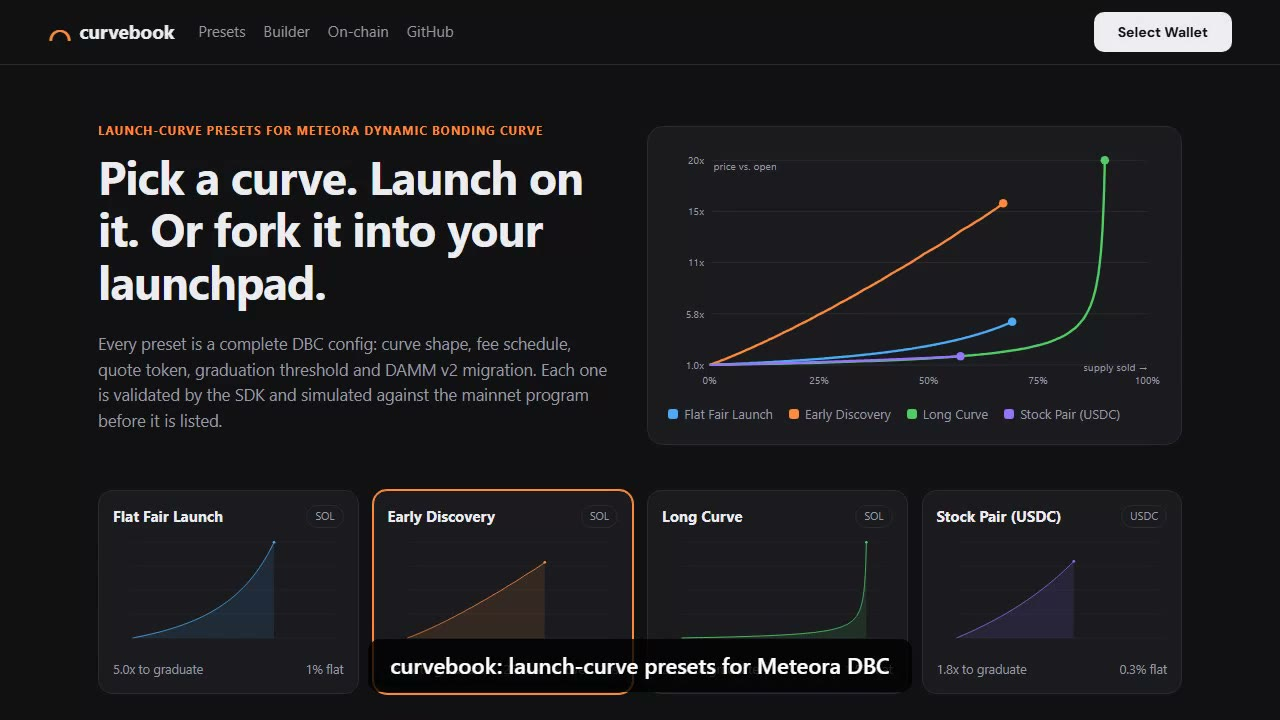
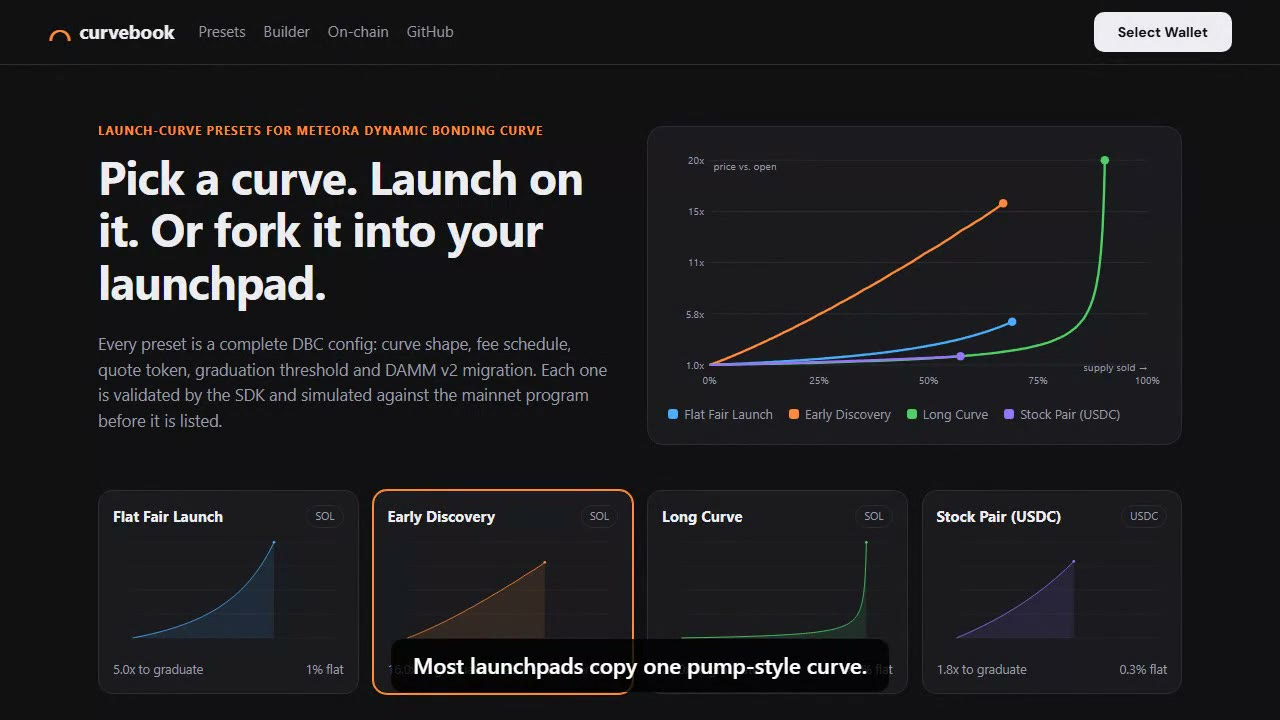
mainnet: four official DBC configs live, 5,000-case curve fuzz test, 42s demo video

Changed region(s): [[0.2812, 0.8861, 0.7188, 0.9778]]

diff --git a/scripts/fuzz-curves.ts b/scripts/fuzz-curves.ts
@@ -1,0 +1,133 @@
+// Randomized property test: N random presets (seeded, reproducible) through the same
+// buildPreset → validateConfigParameters → sampleCurve path the app uses.
+// Pure SDK math, no RPC, no funds. Writes fuzz-report.json.
+//
+//   N=5000 SEED=1 npx tsx scripts/fuzz-curves.ts
+import { writeFileSync } from 'node:fs'
+import { PROTOCOL_FEE_PERCENT } from '@meteora-ag/dynamic-bonding-curve-sdk'
+import { presetStats } from '../src/lib/stats'
+import type { Preset, Shape } from '../src/lib/presets'
+
+const N = Number(process.env.N ?? 5000)
+const SEED = Number(process.env.SEED ?? 1)
+
+// mulberry32
+let s = SEED >>> 0
+const rand = () => {
+  s = (s + 0x6d2b79f5) >>> 0
+  let t = s
+  t = Math.imul(t ^ (t >>> 15), t | 1)
+  t ^= t + Math.imul(t ^ (t >>> 7), t | 61)
+  return ((t ^ (t >>> 14)) >>> 0) / 4294967296
+}
+const pick = <T>(a: T[]) => a[Math.floor(rand() * a.length)]
+const logUniform = (lo: number, hi: number) => Math.exp(Math.log(lo) + rand() * (Math.log(hi) - Math.log(lo)))
+
+function randomPreset(i: number): { p: Preset; expectValid: boolean } {
+  const quote = rand() < 0.75 ? 'SOL' : 'USDC'
+  const initialMarketCap = +(quote === 'SOL' ? logUniform(5, 5_000) : logUniform(1_000, 5_000_000)).toPrecision(4)
+  // 1 in 20 cases is deliberately broken: graduation at or below the start
+  const broken = rand() < 0.05
+  const migrationMarketCap = broken
+    ? +(initialMarketCap * (0.2 + rand() * 0.8)).toPrecision(4)
+    : +(initialMarketCap * logUniform(1.2, 40)).toPrecision(4)
+  const startFeeBps = Math.round(logUniform(25, 5000))
+  const scheduled = rand() < 0.5
+  const endFeeBps = scheduled ? Math.max(25, Math.round(startFeeBps * rand())) : startFeeBps
+  return {
+    expectValid: !broken,
+    p: {
+      id: `fuzz-${i}`,
+      name: `fuzz ${i}`,
+      tagline: '',
+      bestFor: '',
+      shape: pick<Shape>(['flat', 'early', 'long']),
+      quote,
+      initialMarketCap,
+      migrationMarketCap,
+      supply: pick([1_000_000, 10_000_000, 100_000_000, 1_000_000_000]),
+      startFeeBps,
+      endFeeBps,
+      feeDurationSec: scheduled && endFeeBps !== startFeeBps ? Math.round(logUniform(12, 3600)) : 0,
+      creatorFeePct: Math.round(rand() * 100),
+      poolCreationFeeSol: pick([0, 0.01, 0.02, 0.05]),
+    },
+  }
+}
+
+type Fail = { case: number; check: string; detail: string; preset: Preset }
+const fails: Fail[] = []
+const rejectedByValidator: { case: number; error: string; preset: Preset }[] = []
+let passed = 0
+let invalidRejected = 0
+const t0 = Date.now()
+
+for (let i = 0; i < N; i++) {
+  const { p, expectValid } = randomPreset(i)
+  const r = presetStats(p)
+  const fail = (check: string, detail: string) => fails.push({ case: i, check, detail, preset: p })
+
+  if (!expectValid) {
+    if (r.ok) fail('rejects graduation <= start', `accepted mig ${p.migrationMarketCap} <= init ${p.initialMarketCap}`)
+    else invalidRejected++
+    continue
+  }
+  if (!r.ok) {
+    // the SDK may refuse extreme combos (e.g. fee ranges); record them, they are not invariant breaks
+    rejectedByValidator.push({ case: i, error: r.error, preset: p })
+    continue
+  }
+  const st = r.stats
+  const pts = st.points
+  let ok = true
+  const check = (cond: boolean, name: string, detail: string) => {
+    if (!cond) { ok = false; fail(name, detail) }
+  }
+  for (let k = 1; k < pts.length; k++) {
+    check(pts[k].price >= pts[k - 1].price * (1 - 1e-12), 'price never falls', `step ${k}: ${pts[k - 1].price} → ${pts[k].price}`)
+    check(pts[k].sold >= pts[k - 1].sold, 'sold never falls', `step ${k}`)
+    check(pts[k].raised >= pts[k - 1].raised, 'raised never falls', `step ${k}`)
+    if (!ok) break
+  }
+  const qd = p.quote === 'SOL' ? 1e9 : 1e6
+  const threshold = Number(st.params.migrationQuoteThreshold.toString()) / qd
+  check(Math.abs(st.raised - threshold) / threshold < 1e-3, 'graduates at the migration threshold', `raised ${st.raised} vs threshold ${threshold}`)
+  check(st.soldPct > 0 && st.soldPct < 100, 'sells part of supply, never more', `soldPct ${st.soldPct}`)
+  const startMc = st.startPrice * p.supply
+  check(Math.abs(startMc - p.initialMarketCap) / p.initialMarketCap < 0.01, 'start price matches start market cap', `${startMc} vs ${p.initialMarketCap}`)
+  const wantMult = p.migrationMarketCap / p.initialMarketCap
+  check(Math.abs(st.multiplier - wantMult) / wantMult < 0.02, 'graduation multiple matches market-cap ratio', `${st.multiplier} vs ${wantMult}`)
+  check(Math.abs(st.authorShare + st.creatorShare - (1 - PROTOCOL_FEE_PERCENT / 100)) < 1e-9, 'fee shares sum to 100% minus protocol', `${st.authorShare} + ${st.creatorShare}`)
+  if (ok) passed++
+}
+
+const valid = N - (invalidRejected + fails.filter((f) => f.check === 'rejects graduation <= start').length)
+const report = {
+  ranAt: new Date().toISOString(),
+  seed: SEED,
+  cases: N,
+  ms: Date.now() - t0,
+  validCases: valid,
+  passedAllInvariants: passed,
+  rejectedBySdkValidator: rejectedByValidator.length,
+  invalidCases: N - valid,
+  invalidCorrectlyRejected: invalidRejected,
+  invariantFailures: fails.length,
+  checks: [
+    'SDK validateConfigParameters accepts the config',
+    'price, sold and raised never decrease along the curve',
+    'curve graduates within 0.1% of migrationQuoteThreshold',
+    'sold share of supply is between 0 and 100%',
+    'start price × supply within 1% of start market cap',
+    'graduation/start price within 2% of the market-cap ratio',
+    'author + creator fee share = 100% − protocol fee',
+    'graduation market cap <= start market cap is rejected',
+  ],
+  sdkRejections: Object.entries(
+    rejectedByValidator.reduce<Record<string, number>>((m, r) => ((m[r.error] = (m[r.error] ?? 0) + 1), m), {}),
+  ).map(([error, count]) => ({ error, count })),
+  failures: fails.slice(0, 50),
+}
+writeFileSync(new URL('../fuzz-report.json', import.meta.url), JSON.stringify(report, null, 2) + '\n')
+console.log(JSON.stringify({ ...report, failures: report.failures.length, sdkRejections: report.sdkRejections.slice(0, 8) }, null, 2))
+process.exit(fails.length ? 1 : 0)

diff --git a/public/submit.html b/public/submit.html
@@ -47,7 +47,7 @@ Four presets ship today:
 
 The pay-to-use model runs on DBC's own fee-claimer rail. Launching on an official preset pays the preset author the pool-creation fee and the author share of trading fees. A launchpad can also deploy the identical curve under its own wallet with one createConfig and keep those fees itself. A Builder lets anyone tune shape, market caps, fee decay and fee split, validated live with the SDK's validateConfigParameters.
 
-Each preset passes the SDK validator, and its createConfig is simulated against the mainnet DBC program (132–134k CU). The full flow has run on devnet against the same program: createConfig, createPool and a 0.2 SOL buy for every SOL preset, with all signatures on the site. The same buy moved Early Discovery half as far because its 25% opening fee kept a quarter of the input, which shows the anti-snipe fee working. Graduation migrates to DAMM v2 with 100% of the LP permanently locked.`],
+All four preset configs are live on Solana mainnet (config accounts owned by the DBC program, links on the site). A 5,000-case randomized test runs random configs through the same SDK path and checks curve invariants: 0 failures, and every deliberately broken config was rejected. The full flow has also run on devnet against the same program: createConfig, createPool and a 0.2 SOL buy for every SOL preset, with all signatures on the site. The same buy moved Early Discovery half as far because its 25% opening fee kept a quarter of the input, which shows the anti-snipe fee working. Graduation migrates to DAMM v2 with 100% of the LP permanently locked.`],
   ['Project Github Link', 'https://github.com/bryankwandou/curvebook'],
   ['Project Website', SITE],
   ['Project X Link', '', 'Your X profile link.'],
@@ -55,7 +55,7 @@ Each preset passes the SDK validator, and its createConfig is simulated against 
   ["Did you submit this project to the official Crypto World's Fair Hackathon on Colosseum? (Yes/No)", 'No', 'curvebook is not a Colosseum project. Do not link Commish here.'],
   ['Link to Colosseum project', '', 'Leave empty.'],
   ["Link to your project's Colosseum profile", '', 'Optional: your own Colosseum profile link, or leave empty.'],
-  ['Anything Else?', `Repo is public. \`npx tsx scripts/verify-presets.ts\` re-runs the SDK validator and the mainnet createConfig simulation for every preset. \`scripts/devnet-proof.ts\` runs config → launch → buy on devnet; results are on ${SITE}/#proof and in devnet-proof.json. \`scripts/deploy-configs.ts\` creates the official mainnet configs, which turns on the launch form and live pool feed. Mainnet configs are not created yet. Demo video (mp4): ${SITE}/demo.mp4`],
+  ['Anything Else?', `Repo is public. \`npx tsx scripts/verify-presets.ts\` re-runs the SDK validator and the mainnet createConfig simulation for every preset. \`scripts/devnet-proof.ts\` runs config → launch → buy on devnet; results are on ${SITE}/#proof and in devnet-proof.json. Mainnet configs (created by \`scripts/deploy-configs.ts\`): flat-fair 7Cybv7xUZn3JhvZfGQF9h9s7bLWQhNNcqs1yQVGPprPK, early-discovery FnKvUoL12VZacUE2k4EwhFXHn2xxhoG1wvQYsfgBSsLT, long-curve 6aHuAvXw3BYgR5Wrht8neBPXpmGQej7YWhBK9gbDyf93, stock-pair-usdc 4i2iNBaHyJbbZL5q3TVRudzySRbf8NV3BmhscAiQTEhU. \`N=5000 npx tsx scripts/fuzz-curves.ts\` reproduces the 5,000-case test (fuzz-report.json). Demo video (mp4): ${SITE}/x-demo.mp4`],
 ]
 const root = document.getElementById('fields')
 for (const [label, value, note] of F) {

diff --git a/src/App.tsx b/src/App.tsx
@@ -6,6 +6,7 @@ import { deployedConfig } from './lib/registry'
 import { CurveChart, type Series } from './components/CurveChart'
 import { ForkButton, LaunchForm, PoolFeed } from './components/Actions'
 import proof from '../devnet-proof.json'
+import fuzz from '../fuzz-report.json'
 import './App.css'
 
 const COLORS: Record<string, string> = {
@@ -228,10 +229,62 @@ function Builder() {
   )
 }
 
+function MainnetProof() {
+  const mn = (kind: string, id: string) => `https://solscan.io/${kind}/${id}`
+  return (
+    <section className="detail" id="proof">
+      <p className="eyebrow">Live on mainnet · DBC program dbcij3LW…</p>
+      <h2>The four official configs</h2>
+      <p className="lede">
+        Every preset is a live DBC config account on Solana mainnet, owned by the DBC program. Launching on one pays its fee claimer. Pools appear in the feed above as
+        they are created.
+      </p>
+      <div className="panel">
+        <table className="pools">
+          <thead>
+            <tr>
+              <th>Preset</th>
+              <th>Config account</th>
+              <th>createConfig tx</th>
+            </tr>
+          </thead>
+          <tbody>
+            {PRESETS.map((p) => {
+              const d = deployedConfig(p.id)
+              return d ? (
+                <tr key={p.id}>
+                  <td>{p.name}</td>
+                  <td>
+                    <a href={mn('account', d.config)}>{d.config.slice(0, 8)}…</a>
+                  </td>
+                  <td>
+                    <a href={mn('tx', d.signature)}>{d.signature.slice(0, 8)}…</a>
+                  </td>
+                </tr>
+              ) : null
+            })}
+          </tbody>
+        </table>
+      </div>
+      <h3>{fuzz.cases.toLocaleString('en-US')} randomized curve tests, {fuzz.invariantFailures} failures</h3>
+      <p className="lede">
+        <code>scripts/fuzz-curves.ts</code> builds {fuzz.cases.toLocaleString('en-US')} random configs (seed {fuzz.seed}) through the same SDK path as the app and checks each
+        one: {fuzz.passedAllInvariants.toLocaleString('en-US')} valid configs passed every invariant, all {fuzz.invalidCorrectlyRejected} deliberately broken ones were rejected,
+        and the SDK validator refused {fuzz.rejectedBySdkValidator}. This is offline SDK math, not mainnet transactions.
+      </p>
+      <ul className="lede">
+        {fuzz.checks.map((c) => (
+          <li key={c}>{c}</li>
+        ))}
+      </ul>
+    </section>
+  )
+}
+
 function DevnetProof() {
   const dn = (kind: string, id: string) => `https://solscan.io/${kind}/${id}?cluster=devnet`
   return (
-    <section className="detail" id="proof">
+    <section className="detail" id="devnet">
       <p className="eyebrow">On-chain run · devnet · same DBC program id</p>
       <h2>Config → launch → buy, end to end</h2>
       <p className="lede">
@@ -341,6 +394,7 @@ export default function App() {
 
         <Detail p={chosen} />
         <Builder />
+        <MainnetProof />
         <DevnetProof />
       </main>
 

diff --git a/public/demo.html b/public/demo.html
@@ -4,10 +4,10 @@
 <meta charset="UTF-8" />
 <meta name="viewport" content="width=device-width, initial-scale=1.0" />
 <title>curvebook demo</title>
-<meta name="description" content="2-minute demo of curvebook: launch-curve presets for Meteora Dynamic Bonding Curve." />
+<meta name="description" content="42-second demo of curvebook: launch-curve presets for Meteora Dynamic Bonding Curve." />
 <meta property="og:title" content="curvebook demo" />
 <meta property="og:image" content="https://curvebook-kappa.vercel.app/demo-poster.jpg" />
-<meta property="og:video" content="https://curvebook-kappa.vercel.app/demo.mp4" />
+<meta property="og:video" content="https://curvebook-kappa.vercel.app/x-demo.mp4" />
 <link rel="icon" type="image/svg+xml" href="/favicon.svg" />
 <style>
   :root { --bg:#f6f4ef; --surface:#fff; --ink:#17171a; --muted:#5d5d66; --line:#e2ded5; --accent:#e8590c; }
@@ -28,13 +28,13 @@
 <main>
   <p class="eyebrow">Meteora DBC track · Crypto World's Fair</p>
   <h1>curvebook: launch-curve presets for Meteora DBC</h1>
-  <p>Compare tuned Dynamic Bonding Curve configs, launch a token on one, or deploy the identical curve under your own launchpad wallet. Every preset is validated by the DBC SDK and its createConfig is simulated against the mainnet program. The full flow (config, launch, buy) has run on devnet.</p>
-  <video src="/demo.mp4" poster="/demo-poster.jpg" controls playsinline preload="metadata"></video>
+  <p>Compare tuned Dynamic Bonding Curve configs, launch a token on one, or deploy the identical curve under your own launchpad wallet. All four preset configs are live on Solana mainnet, owned by the DBC program. 5,000 randomized curve tests pass with zero failures, and the full flow (config, launch, buy) has run end to end on devnet.</p>
+  <video src="/x-demo.mp4" poster="/demo-poster.jpg" controls playsinline preload="metadata"></video>
   <div class="links">
     <a class="primary" href="/">Open the app</a>
-    <a href="/#proof">On-chain run</a>
+    <a href="/#proof">Mainnet configs + tests</a>
     <a href="https://github.com/bryankwandou/curvebook">GitHub</a>
-    <a href="/demo.mp4" download>Download video (mp4)</a>
+    <a href="/x-demo.mp4" download>Download video (mp4)</a>
   </div>
 </main>
 </body>

diff --git a/README.md b/README.md
@@ -52,6 +52,37 @@ For every preset this:
 
 Last run: all 4 pass, 132–134k CU each.
 
+### 5,000 randomized curve tests
+
+```bash
+N=5000 SEED=1 npx tsx scripts/fuzz-curves.ts
+```
+
+This builds random configs (shape, quote, market caps, supply, fee schedule, fee split) through the
+same `buildPreset → validateConfigParameters → sampleCurve` path the app uses, and checks each one:
+price, sold and raised never fall; graduation lands within 0.1% of the migration threshold; start
+price matches the start market cap; the graduation multiple matches the market-cap ratio; fee shares
+sum to 100% minus the protocol fee. One case in twenty is deliberately broken (graduation at or
+below the start) and must be rejected.
+
+Last run (seed 1): 5,000 cases, 4,725 valid configs passed every invariant, 274 of 274 broken ones were
+rejected, and the SDK validator refused 1 ("Invalid pool fees"). 0 failures. Full output: [fuzz-report.json](fuzz-report.json).
+This is offline SDK math, not mainnet transactions.
+
+## Mainnet configs (live)
+
+Created 2026-10-05 by `scripts/deploy-configs.ts`. Each is a DBC config account owned by
+`dbcij3LWUppWqq96dh6gJWwBifmcGfLSB5D4DuSMaqN`, fee claimer `GNuQ8FoXKAsq1i5QaT3o3Cjtevo7MAyRsAKiWB4Z2as8`.
+
+| Preset | Config | createConfig |
+| --- | --- | --- |
+| flat-fair | [7Cybv7xU…](https://solscan.io/account/7Cybv7xUZn3JhvZfGQF9h9s7bLWQhNNcqs1yQVGPprPK) | [tx](https://solscan.io/tx/2dPGvjmAGEjmXdan3LQ9WTBDXpXatDjhk8wKjPkvkB8gDwbvKiNndre7DyBSytwmEMurb7WuggQjX7xuYmQWwgVT) |
+| early-discovery | [FnKvUoL1…](https://solscan.io/account/FnKvUoL12VZacUE2k4EwhFXHn2xxhoG1wvQYsfgBSsLT) | [tx](https://solscan.io/tx/2DcGSrPZ3a7WhqzEFLS9eQDx184rvaPxkdsanrYL4QLreLU2CiRnd7yoEiuXUMQkFdRFDoCF9ZUzyEQsJNv2HBKa) |
+| long-curve | [6aHuAvXw…](https://solscan.io/account/6aHuAvXw3BYgR5Wrht8neBPXpmGQej7YWhBK9gbDyf93) | [tx](https://solscan.io/tx/4BAY6KjyytTGNsuoirHwNHz6Aq1DLaZKbvFHAsLiP298PsuWcy4TbP6ey7x4bXtdLd264BDTyEsM5PD4PoDTL1sT) |
+| stock-pair-usdc | [4i2iNBaH…](https://solscan.io/account/4i2iNBaHyJbbZL5q3TVRudzySRbf8NV3BmhscAiQTEhU) | [tx](https://solscan.io/tx/2kx3rPKoDfyi7qTceiFB94mpYHMtxfh85aRYhFiDgRq6VLqJqPUC9VzmvM4QhN73kCHQh1g2mggH669Y425JEws) |
+
+No mainnet token has been launched on them yet.
+
 ## Devnet run (end to end)
 
 Same DBC program id as mainnet. `scripts/devnet-proof.ts` deployed each SOL preset, launched a token on it, and bought 0.2 SOL of it (2026-10-05):
